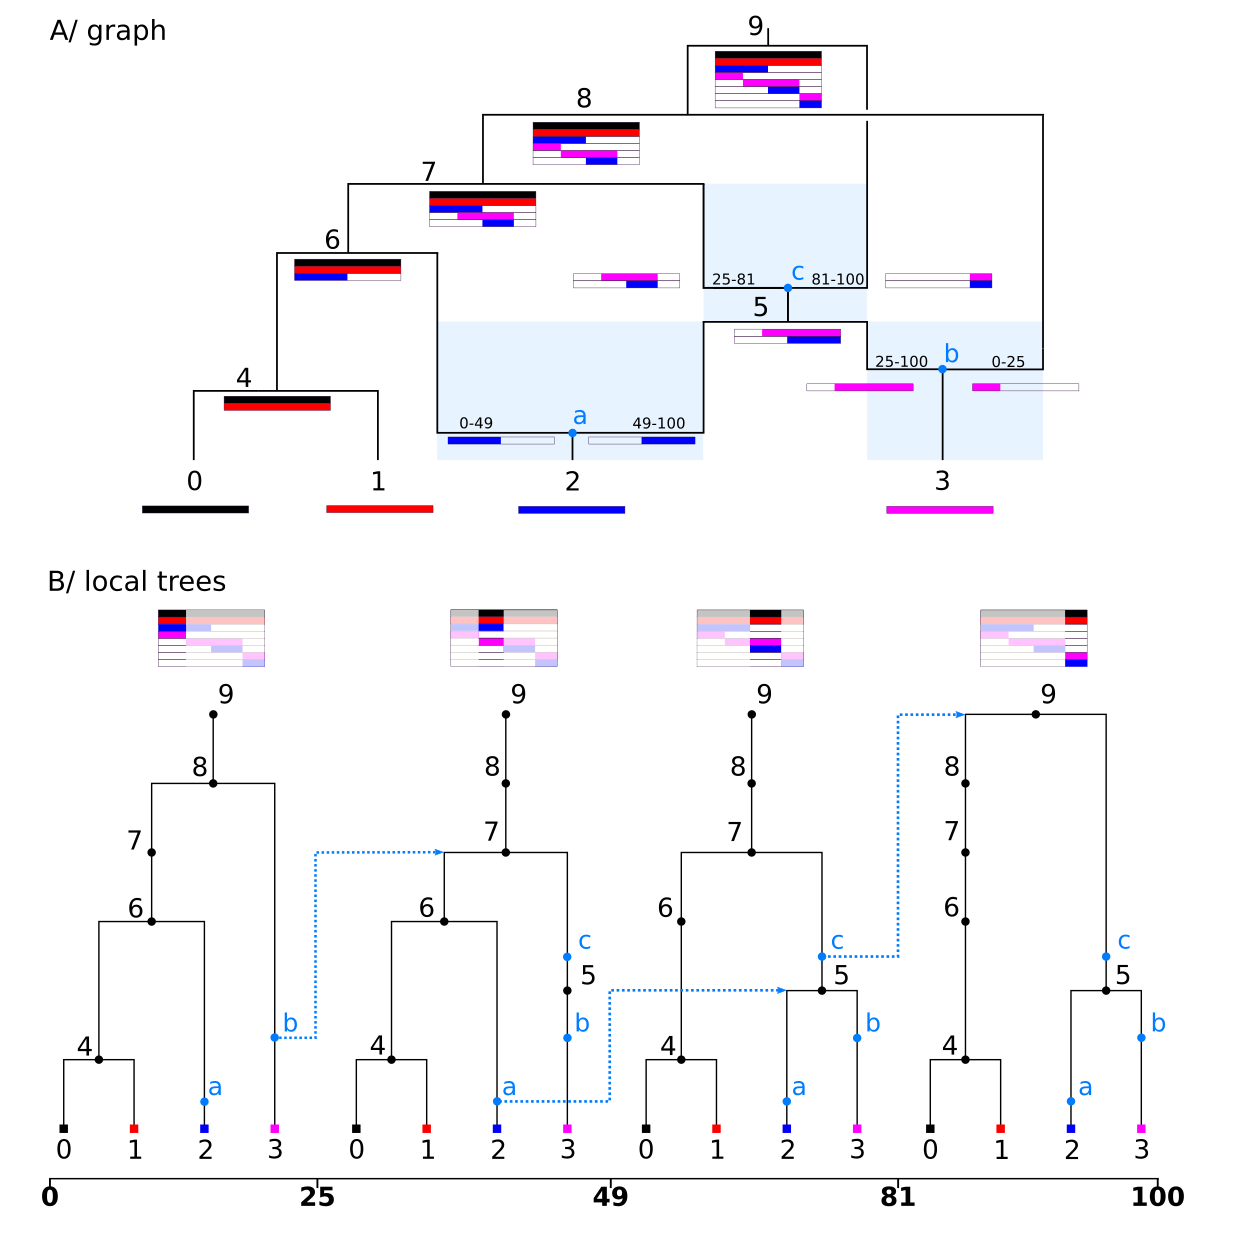
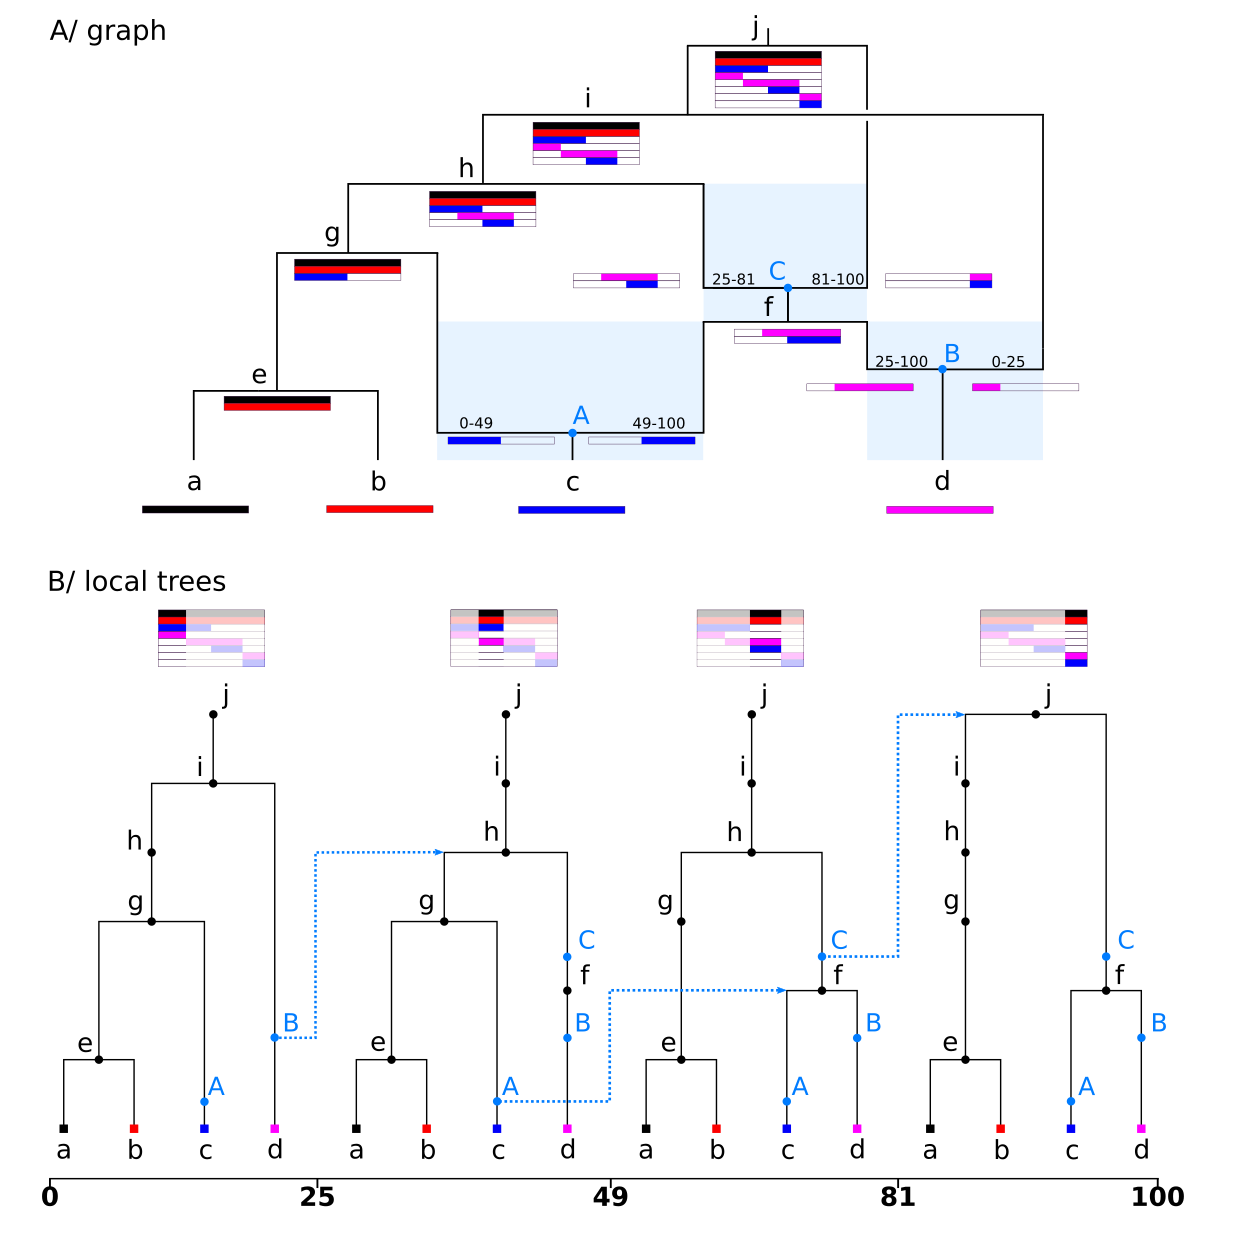
arg nodes to letters

diff --git a/paper.tex b/paper.tex
@@ -231,7 +231,7 @@ a node is encountered along its ancestry path in the graph representation.
 This results in nodes that (locally) have only a single child, and are therefore
 (locally) unary. By removing recombinant nodes, we limit the information on the time to each
 of these events to the windows (blue shaded array) delimited by by the age of
-the child node $c$ and the minimum age of the parents of the edges connecting to $c$.
+the child node and the minimum age of the parents of the edges connecting to that child node.
 Blue (unary) nodes represent recombinant nodes. The blue arrows show the
 familiar left-to-right logic of the SMC whereby
 the floating lineage coalesces randomly
@@ -247,15 +247,15 @@ Fig.\ref{fig:smc-unary} shows a small ARG
 that describes relationships between four samples on a 100bp piece of genome,
 represented as both a graph (top) and a series of local trees (bottom).
 Both structures represent the same information:
-for instance, the fact that the ancestral genome at $a$
-inherited the left half of its genome from ancestor 6
-and the right half from ancestor 5
-is seen in the fact that the first two trees have $a$ below 6,
-and the remaining have $a$ below 5.
-The blue dotted line from $a$ in the second tree to 5 in the third tree
+for instance, the fact that the ancestral genome at $A$
+inherited the left half of its genome from ancestor $g$
+and the right half from ancestor $f$
+is seen in the fact that the first two trees have $A$ below $g$,
+and the remaining have $A$ below $f$.
+The blue dotted line from $A$ in the second tree to $f$ in the third tree
 draws our attention to the fact that
-the path traced by $a$'s ancestry switches at that point.
-In fact, $a$ is in blue because it is a \emph{recombinant} node --
+the path traced by $A$'s ancestry switches at that point.
+In fact, $A$ is in blue because it is a \emph{recombinant} node --
 an ancestor that has a segment of genome inherited by a sample,
 but that segment was inherited in two pieces from their parent.
 Other nodes (labeled by black numbers) are either samples
@@ -268,12 +268,12 @@ nodes that only have a single child along one or more local trees --
 i.e., are \emph{locally unary}~\citep{wong_general_2023}.
 Recombinant nodes (in blue) have a single child in all trees.
 However, common ancestry nodes can be locally unary as well:
-for instance, sample 3 inherited a longer stretch of genome from ancestor 5
-than did sample 2.
-In the top plot, this is visible because the pink bar below node 5
+for instance, sample $d$ inherited a longer stretch of genome from ancestor $f$
+than did sample $c$.
+In the top plot, this is visible because the pink bar below node $f$
 extends further to the left than does the blue bar,
-while in the bottom plot, this is visible because node 5 is parent to 3
-in the second tree, but not to node 2, and so is unary.
+while in the bottom plot, this is visible because node $f$ is parent to $d$
+in the second tree, but not to node $c$, and so is unary.
 
 %% Noved this section to section on smc
 % A key observation of \citet{mcvean_approximating_2005}
@@ -302,12 +302,12 @@ in the second tree, but not to node 2, and so is unary.
 These locally unary nodes enable
 us to uniquely identify all lineages that were hit by a recombination event,
 even if we simplify the ARG by removing all recombinant nodes
-($a$, $b$, and $c$ in Fig.\ref{fig:smc-unary}).
+($A$, $B$, and $C$ in Fig.\ref{fig:smc-unary}).
 In the absence of these recombinant nodes, a recombination can be observed
 easily enough as a change in parent going from one genomic region to the next.
 Without the recombinant nodes we no longer know the precise time of each recombination event,
 but we do still have constraints on the time:
-for instance, we know that $c$ happened somewhere between node 5 and node 7.
+for instance, we know that $C$ happened somewhere between node $f$ and node $h$.
 More generally, a recombinant node must happen somewhere between the child node
 and the most recent of the parent nodes.
 This is again easier to visualise using the
@@ -375,7 +375,7 @@ To see that the locally unary nodes make the process non-Markov,
 consider that a node in a tree might be unary either because
 it's about to be a coalescent node or it already has been:
 looking at the second tree (Fig.\ref{fig:smc-unary}),
-we know node 5 will be coalescent further down the sequence
+we know node $f$ will be coalescent further down the sequence
 because it was not present in the first tree.
 So, the first tree gives us information about subsequent trees
 that the second tree alone could not.
